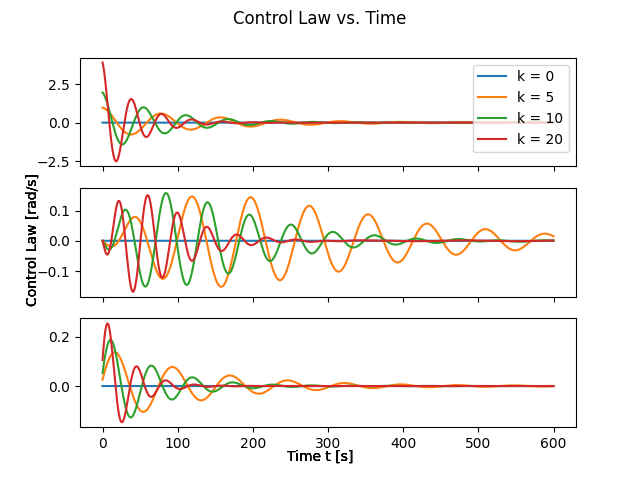
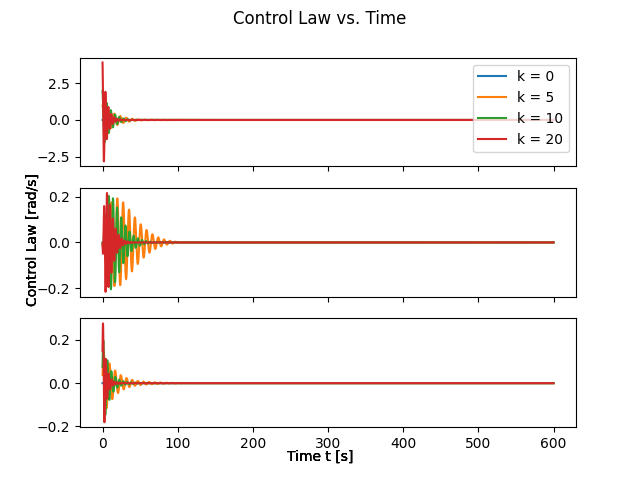
Generated and corrected some figures

diff --git a/src/main.py b/src/main.py
@@ -40,6 +40,7 @@ q1Mat, q2Mat, q3Mat = {}, {}, {}
 # Set showControl to False to see quaternion trajectory without control law L(t)
 showControl = True
 
+
 # Class for holding quaternion information
 class Q:
     def __init__(self, x, y, z, w):
@@ -209,7 +210,7 @@ def q1():
     plt.title('Desired Scan Pattern X/Y')
     plt.xlabel('x')
     plt.ylabel('y')
-    plt.savefig(path + "ScanPattern")
+    # plt.savefig(path + "ScanPattern")
 
 
 # Calculate body-fixed angular velocity trajectory from t=0s to t=600s
@@ -258,7 +259,7 @@ def q2():
     plt.xlabel('Time t [s]')
     plt.ylabel('Angular Velocity $\omega$(t) [rad/s]')
     plt.legend()
-    plt.savefig(path + "WMAPAngVel")
+    # plt.savefig(path + "WMAPAngVel")
 
 
 # Calculate the quaternion trajectory using attitude matrix (see Appendix for derivation)
@@ -288,7 +289,7 @@ def q3():
 
     # Calculate quaternion trajectory using previous angular velocity trajectory
     for i in range(0, len(w)):
-        newQ = quatProp(oldq, 0.1, w[i])
+        newQ = quatProp(oldq, 1, w[i])
         q.append(newQ)
         q1Lst.append(newQ.item(0))
         q2Lst.append(newQ.item(1))
@@ -307,7 +308,7 @@ def q3():
     plt.xlabel('Time t [s]')
     plt.ylabel('Quaternion')
     plt.title('Quaternion Trajectory vs. Time')
-    plt.savefig(path + "QuatTrajectory")
+    # plt.savefig(path + "QuatTrajectory")
 
 
 # Using 4th Order Runge Kutta routine, numerically integrate quaternion trajectory,
@@ -334,7 +335,7 @@ def q4(k, ec):
 
     # Numerically integrate quat. trajectory
     for i in range(0, 6000):
-        res = rk4(odeq[i], odew[i], q[i], w[i], k, 0.1)
+        res = rk4(odeq[i], odew[i], q[i], w[i], k, 1)
 
         odeq.append(res[0])
         odew.append(res[1])
@@ -361,7 +362,8 @@ def q4(k, ec):
         plt.xlabel('Time t [s]')
         plt.ylabel('Quaternion')
         plt.title('Runge Kutta Quaternion k = '+str(k)+' Trajectory vs. Time')
-        plt.savefig(path + "RK4QuatTrajectoryk="+str(k))
+        plt.xlim([0, 60])
+        # plt.savefig(path + "RK4QuatTrajectoryk="+str(k))
 
     if showControl:
         for i in range(0, 6000):
@@ -421,6 +423,9 @@ def ec():
         ((figLst[0])[1])[0].legend(loc=1)
         (figLst[0])[0].text(0.5, 0.04, 'Time t [s]', ha='center')
         (figLst[0])[0].text(0.04, 0.5, 'Quaternion Error [deg]', va='center', rotation='vertical')
+        # ((figLst[0])[1])[0].axis(xmin=0, xmax=60)
+        # ((figLst[0])[1])[1].axis(xmin=0, xmax=60)
+        # ((figLst[0])[1])[2].axis(xmin=0, xmax=60)
 
         ((figLst[1])[1])[0].plot(xlist, w1Mat[k], '-', label='k = ' + str(k))
         ((figLst[1])[1])[1].plot(xlist, w2Mat[k], '-', label='k = ' + str(k))
@@ -429,6 +434,9 @@ def ec():
         ((figLst[1])[1])[0].legend(loc=1)
         (figLst[1])[0].text(0.5, 0.04, 'Time t [s]', ha='center')
         (figLst[1])[0].text(0.04, 0.5, 'Angular Velocity Error [rad/s]', va='center', rotation='vertical')
+        ((figLst[1])[1])[0].axis(xmin=0, xmax=60)
+        ((figLst[1])[1])[1].axis(xmin=0, xmax=60)
+        ((figLst[1])[1])[2].axis(xmin=0, xmax=60)
 
         ((figLst[2])[1])[0].plot(xlist, l1Mat[k], '-', label='k = ' + str(k))
         ((figLst[2])[1])[1].plot(xlist, l2Mat[k], '-', label='k = ' + str(k))
@@ -437,10 +445,13 @@ def ec():
         ((figLst[2])[1])[0].legend(loc=1)
         (figLst[2])[0].text(0.5, 0.04, 'Time t [s]', ha='center')
         (figLst[2])[0].text(0.04, 0.5, 'Control Law [rad/s]', va='center', rotation='vertical')
+        # ((figLst[2])[1])[0].axis(xmin=0, xmax=60)
+        # ((figLst[2])[1])[1].axis(xmin=0, xmax=60)
+        # ((figLst[2])[1])[2].axis(xmin=0, xmax=60)
 
-    (figLst[0])[0].savefig(path + "QuatErrorComp")
-    (figLst[1])[0].savefig(path + "AngVelErrorComp")
-    (figLst[2])[0].savefig(path + "ControlLawComp")
+    # (figLst[0])[0].savefig(path + "QuatErrorComp")
+    # (figLst[1])[0].savefig(path + "AngVelErrorComp")
+    # (figLst[2])[0].savefig(path + "ControlLawComp")
 
 
 q1()
